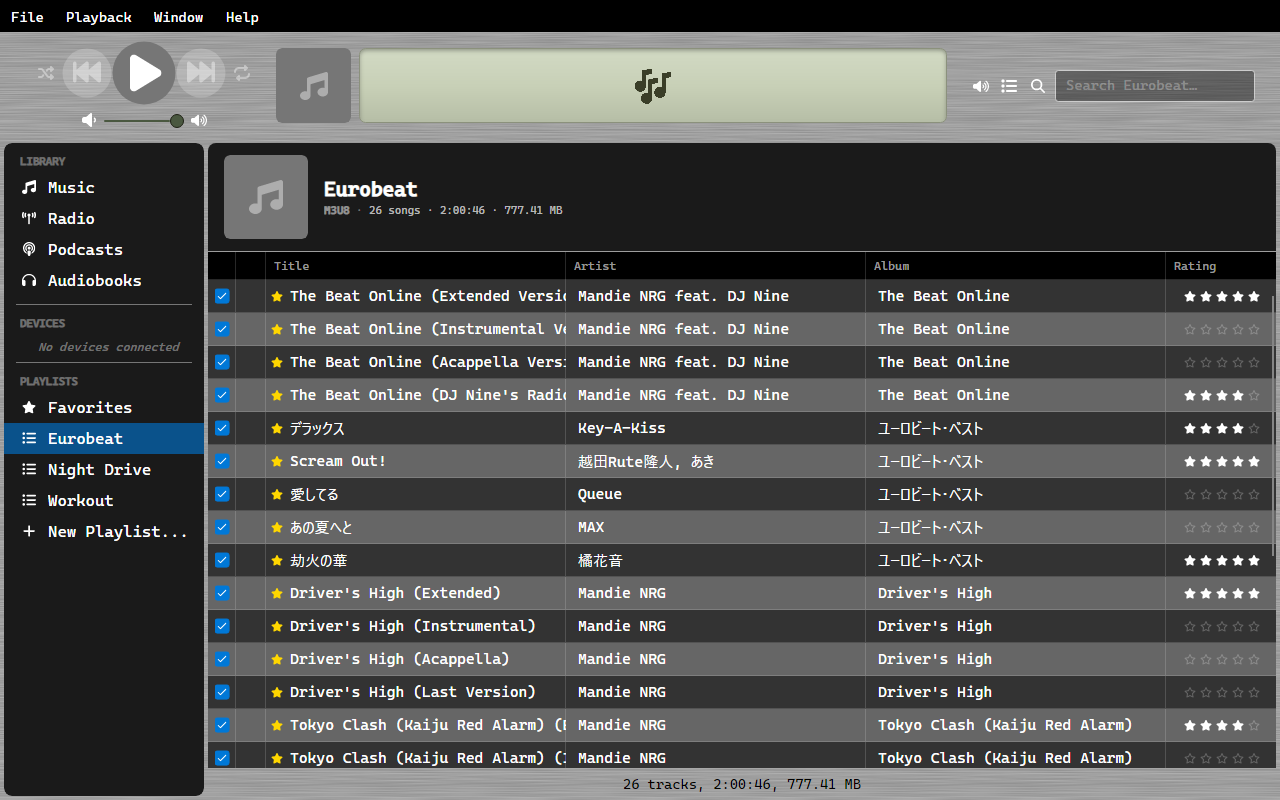
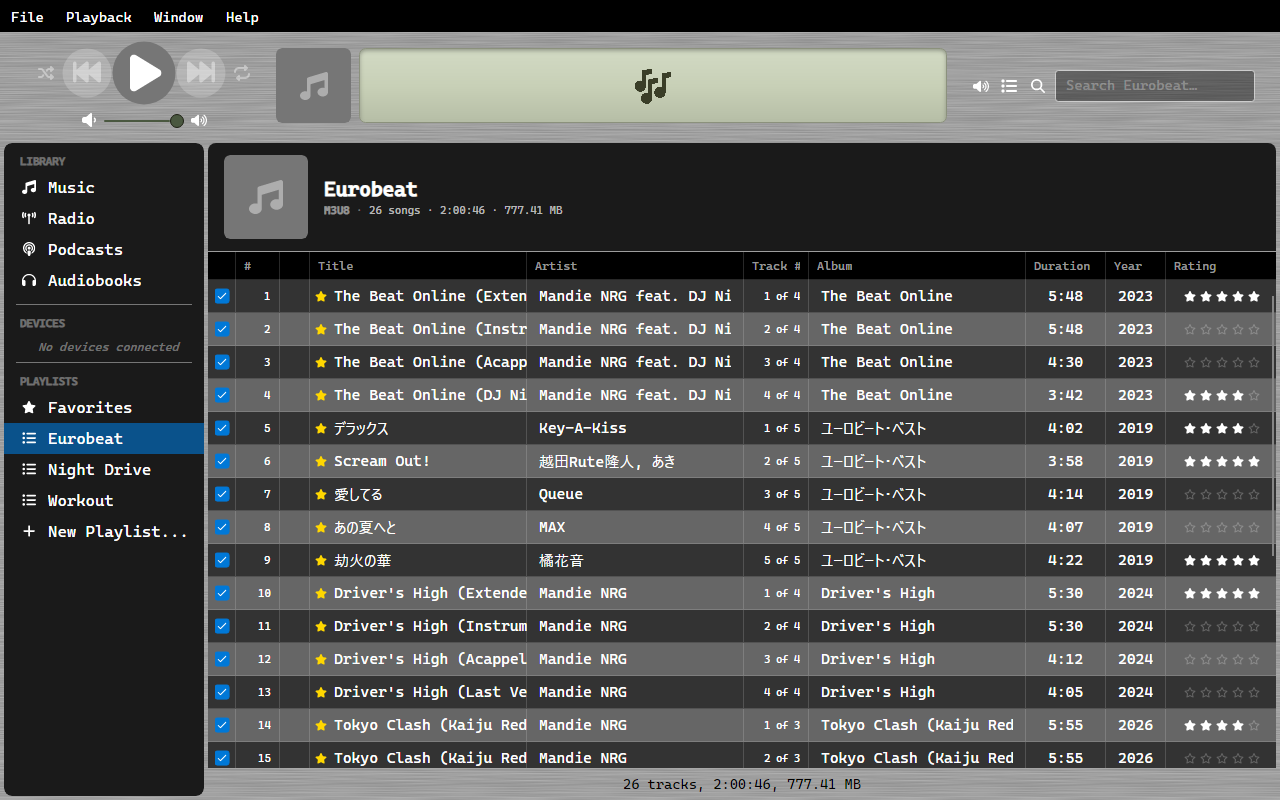
fix: show and preserve playlist order in the playlist view

diff --git a/Models/ListViewConfig.cs b/Models/ListViewConfig.cs
@@ -377,14 +377,14 @@ public static class ListViewConfigs
             Key = $"Playlist:{playlistId}",
             PlaylistId = playlistId,
             ShowCheckedColumn = true,
+            // The library's columns, plus the position column in front. A playlist showed
+            // Title/Artist/Album/Rating and nothing else, so Track #, Duration and Year were
+            // missing from a view that is otherwise the same list of the same songs.
             Columns =
             [
                 CheckedColumn(),
-                new ColumnDef { Header = "", BindingPath = "IsPlaying", Type = ColumnType.PlayIndicator, WidthType = DataGridLengthUnitType.Pixel, WidthValue = 30, CanUserSort = false, CanUserResize = false, CanUserReorder = false },
-                new ColumnDef { Header = "Title", BindingPath = "Title", Type = ColumnType.FavoriteTitle, WidthType = DataGridLengthUnitType.Star, WidthValue = 1 },
-                new ColumnDef { Header = "Artist", BindingPath = "Artist", WidthType = DataGridLengthUnitType.Star, WidthValue = 1 },
-                new ColumnDef { Header = "Album", BindingPath = "Album", WidthType = DataGridLengthUnitType.Star, WidthValue = 1 },
-                new ColumnDef { Header = "Rating", BindingPath = "RatingDisplay", Type = ColumnType.Rating, WidthType = DataGridLengthUnitType.Pixel, WidthValue = 110, CanUserSort = false },
+                PlaylistPositionColumn(),
+                .. MusicColumns().Where(c => c.BindingPath != "IsChecked"),
             ],
             BaseFilter = item => idSet.Contains(item.Id),
             SearchFilter = (item, search) =>
@@ -392,7 +392,24 @@ public static class ListViewConfigs
                 (item.Artist?.Contains(search, StringComparison.OrdinalIgnoreCase) ?? false) ||
                 (item.Album?.Contains(search, StringComparison.OrdinalIgnoreCase) ?? false),
             ContextMenuItems = BuildPlaylistContextMenu(),
-            Sorter = items => items.OrderBy(item => orderMap.TryGetValue(item.Id, out var idx) ? idx : int.MaxValue),
+
+            // Stamps each row's position as it orders them, so the "#" column has something to
+            // show and something to sort on. Sorting by "#" is what gets playlist order back
+            // after a header sort - without it, clicking Artist replaced the user's order with
+            // no way to return to it.
+            Sorter = items =>
+            {
+                var ordered = items
+                    .OrderBy(item => orderMap.TryGetValue(item.Id, out var idx) ? idx : int.MaxValue)
+                    .ToList();
+
+                for (var i = 0; i < ordered.Count; i++)
+                {
+                    ordered[i].PlaylistPosition = orderMap.TryGetValue(ordered[i].Id, out var idx) ? idx + 1 : null;
+                }
+
+                return ordered;
+            },
         };
     }
 
@@ -405,6 +422,13 @@ public static class ListViewConfigs
     /// The iTunes row tick: included in play-through and sync when checked. Editable,
     /// unsortable, and pinned narrow at the front like iTunes had it.
     /// </summary>
+    /// <summary>
+    /// The playlist's own running order. Sortable on purpose: it is the way back to playlist
+    /// order once a header sort has been applied.
+    /// </summary>
+    internal static ColumnDef PlaylistPositionColumn() =>
+        new() { Header = "#", BindingPath = "PlaylistPosition", Type = ColumnType.RightAligned, WidthType = DataGridLengthUnitType.Pixel, WidthValue = 44, FontSize = 11, CanUserReorder = false };
+
     internal static ColumnDef CheckedColumn() =>
         new() { Header = "", BindingPath = "IsChecked", Type = ColumnType.RowCheck, WidthType = DataGridLengthUnitType.Pixel, WidthValue = 28, CanUserSort = false, CanUserResize = false, CanUserReorder = false };
 

diff --git a/Models/MediaItem.cs b/Models/MediaItem.cs
@@ -46,6 +46,15 @@ public partial class MediaItem : ObservableObject
     private bool _isFavorite;
 
     /// <summary>
+    /// 1-based position in the playlist currently on screen, or null outside a playlist view.
+    /// Transient like <see cref="IsPlaying"/>: a track can sit in several playlists, so this
+    /// belongs to the view being shown rather than to the track, and is stamped when that
+    /// view's order is applied.
+    /// </summary>
+    [ObservableProperty]
+    private int? _playlistPosition;
+
+    /// <summary>
     /// CD-rip status surfaced in the play column. The play indicator takes priority,
     /// so the rip glyphs hide while a row is actively playing.
     /// </summary>

diff --git a/docs/features/playlists.md b/docs/features/playlists.md
@@ -17,6 +17,14 @@ name.
 
 ![Naming a new playlist](../assets/screenshots/playlist-name.png)
 
+## Order
+
+The **#** column is the playlist's own running order, and it is what a playlist plays in
+and what gets written to the file. Drag rows to change it.
+
+Sorting by any other column - Artist, Duration - only changes what you are looking at. The
+saved order is untouched, and clicking **#** puts the view back.
+
 ## Playlists you already have
 
 Drop an `.m3u8` anywhere in your music folder and it becomes a playlist on the next scan.
